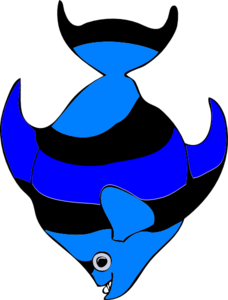
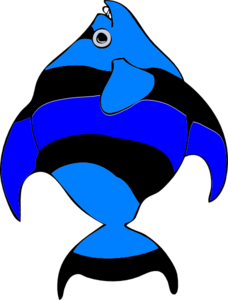
changes

diff --git a/objects.py b/objects.py
@@ -93,7 +93,7 @@ class Wall:
 
 
 class Cursor:
-    def __init__(self, x, y, width, height, color,imagePath,frozenColour = (255,0,0),useImg = True):
+    def __init__(self, x, y, width, height, color,imagePaths,frozenColour = (255,0,0),useImg = True):
         """
         Initialize a velocity-controlled cursor with inertia.
 
@@ -113,18 +113,18 @@ class Cursor:
         self.frozenCursorColour = frozenColour  # set at red
         self.velocity = [0, 0]  # Velocity in pixels per frame (x, y)
         self.acceleration = 2    # Acceleration rate
-        self.friction = 0.95      # Friction coefficient
+        self.friction = 0.92      # Friction coefficient
         self.is_frozen = False
         self.cooldown = 2000 # cooldown time when frozen from hitting wall in ms 
         self.last_hit_time = None # store time of hit
         self.resetLatch = 0
         # Scale the image
         if self.useImg:
-            img = pygame.image.load(imagePath) 
-            scaledImage = pygame.transform.scale(img, (width, height))
-            self.image = scaledImage
-            self.rect = self.image.get_rect(topleft=(x, y))
-
+            self.images = {direction: pygame.image.load(path) for direction, path in imagePaths.items()}
+            for key in self.images.keys():
+                self.images[key] = pygame.transform.scale(self.images[key], (width, height))
+            #self.rect = self.image.get_rect(topleft=(x, y))
+        self.currentImage = self.images['right']
     def update(self):
         """
         Update the cursor's position based on its velocity, applying friction.
@@ -155,6 +155,41 @@ class Cursor:
             if self.rect.bottom > pygame.display.get_surface().get_height():
                 self.rect.bottom = pygame.display.get_surface().get_height()
                 self.velocity[1] = 0
+        self.selectImageBasedOnDirection()
+            
+    def selectImageBasedOnDirection(self):
+        # change image based on velocity
+        try:
+            velAngle = np.rad2deg(np.arctan(np.abs(self.velocity[1]/self.velocity[0])))
+        except ZeroDivisionError:
+            if self.velocity[1] > 0: 
+                velAngle = 270
+            elif self.velocity[1] < 0:
+                velAngle = 90
+            else:
+                velAngle = 0
+        
+
+        if self.velocity[0] > 0 and self.velocity[1] < 0:
+            velAngle = velAngle
+        elif self.velocity[0] < 0 and self.velocity[1] < 0:
+            velAngle = 180 - velAngle
+        elif self.velocity[0] < 0 and self.velocity[1] > 0:
+            velAngle = 180 + velAngle
+        elif self.velocity[0] > 0 and self.velocity[1] > 0:
+            velAngle = 360 - velAngle
+        
+        print(velAngle)
+
+        if  45 < velAngle < 135:
+            self.currentImage = self.images['up']
+        elif 135 < velAngle < 225:
+            self.currentImage = self.images['left']
+        elif 225 < velAngle < 315:
+            self.currentImage = self.images['down']
+        elif velAngle < 45 or velAngle > 315:
+            self.currentImage = self.images['right']
+
 
     def draw(self, screen):
         """
@@ -164,7 +199,7 @@ class Cursor:
             screen (pygame.Surface): The surface to draw the cursor on.
         """
         if self.useImg:
-            screen.blit(self.image, self.rect)
+            screen.blit(self.currentImage, self.rect)
 
         else:
             pygame.draw.rect(screen, self.color, self.rect)
@@ -185,12 +220,12 @@ class Cursor:
             self.velocity[1] += self.acceleration  # Accelerate down
     
     def checkIfCursorHitWall(self,gameEngine):
-        gameEngine.debugger.dispMsg(3,'Entered  cursor hit wall check',frequency = 100)
+        gameEngine.debugger.dispMsg(5,'Entered  cursor hit wall check',frequency = 100)
         for wall in gameEngine.maze.wallList:
-            gameEngine.debugger.dispMsg(3,'Specific wall did not hit cursor',frequency = 100)
-            gameEngine.debugger.disp(3,'cursor rect',self.rect,'wall rect',wall.rect,frequency = 100)
+            gameEngine.debugger.dispMsg(5,'Specific wall did not hit cursor',frequency = 100)
+            gameEngine.debugger.disp(5,'cursor rect',self.rect,'wall rect',wall.rect,frequency = 100)
             if pygame.Rect.colliderect(self.rect,wall.rect):
-                    gameEngine.debugger.dispMsg(3,'Collision Detected')
+                    gameEngine.debugger.dispMsg(5,'Collision Detected')
                     self.is_frozen = True
                     self.last_hit_time = pygame.time.get_ticks()
                     self.color = self.frozenCursorColour

diff --git a/setup.py b/setup.py
@@ -32,8 +32,9 @@ def runGameSetup(gameEngine):
     gameEngine.clock = pygame.time.Clock()
 
     # cursor path
-    cursorPath = "Images/fish.png"
-    gameEngine.cursor = Cursor(x=gameEngine.screen_width//2, y=gameEngine.screen_height//2, width=30, height=30, color=(255, 255, 255),imagePath=cursorPath)
+    cursorPaths = {'left': "Images/fish_left.png", 'right': "Images/fish_right.png",
+                   'down': "Images/fish_down.png",'up': "Images/fish_up.png"}
+    gameEngine.cursor = Cursor(x=gameEngine.screen_width//2, y=gameEngine.screen_height//2, width=40, height=40, color=(255, 255, 255),imagePaths=cursorPaths)
     
 
     return gameEngine

diff --git a/variables.py b/variables.py
@@ -69,8 +69,8 @@ def initialiseGame():
 
     # metadata for placing target
     gameEngine.targetPlaceFrequency = 5000
-    gameEngine.targetWidth = 30
-    gameEngine.targetHeight = 30
+    gameEngine.targetWidth = 40
+    gameEngine.targetHeight = 40
 
     return gameEngine 
 
